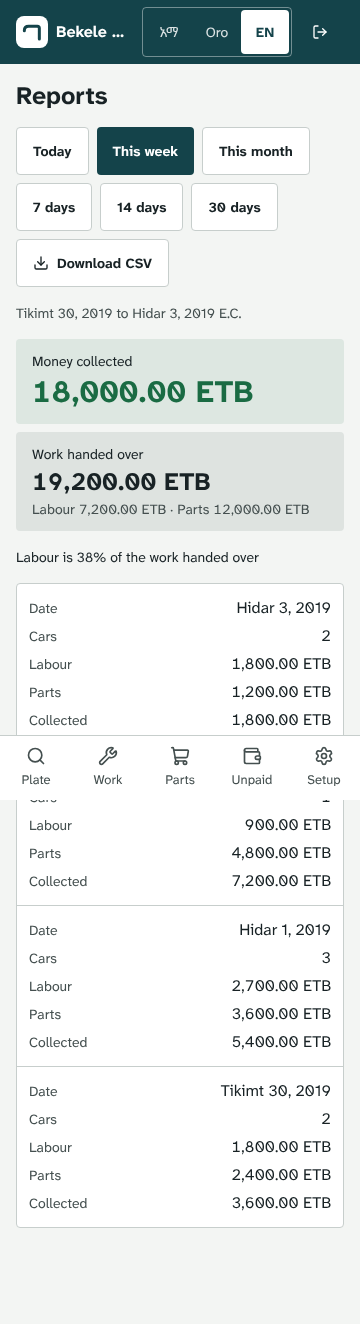
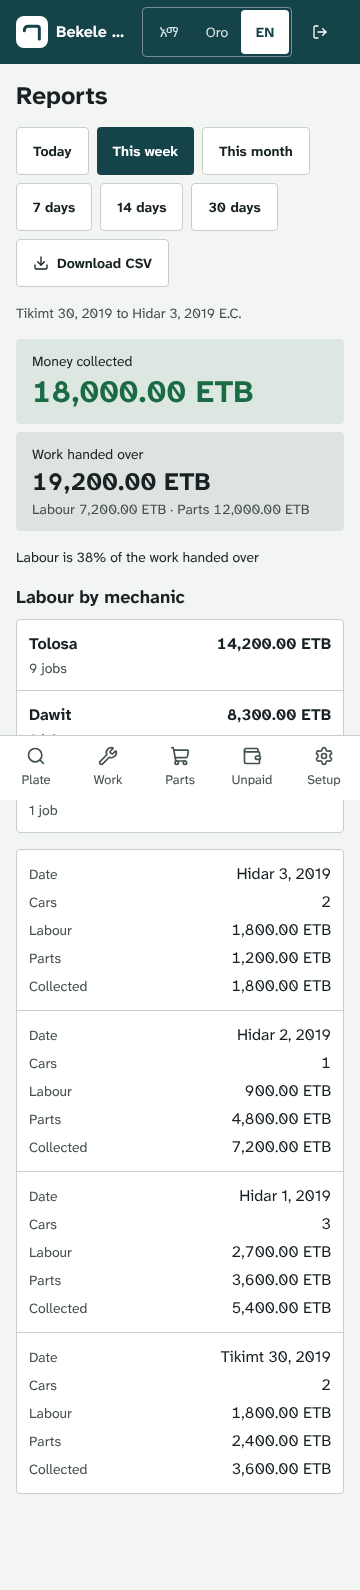
Reports: labour booked per mechanic with job counts

diff --git a/src/app/(app)/reports/page.tsx b/src/app/(app)/reports/page.tsx
@@ -3,6 +3,7 @@ import { redirect } from "next/navigation";
 import { getLocale, getTranslations } from "next-intl/server";
 import { Download } from "lucide-react";
 import { DataList } from "@/components/galmee/data-list";
+import { ListRow, ListSheet } from "@/components/galmee/list-row";
 import { MoneySummaryCard } from "@/components/galmee/money-summary-card";
 import { buttonVariants } from "@/components/ui/button";
 import type { Locale } from "@/i18n/config";
@@ -10,7 +11,7 @@ import { formatEthiopianDate } from "@/lib/ethiopian-date";
 import { formatBirr } from "@/lib/money";
 import { REPORT_RANGES, addisToday, parseReportRange, reportRangeDates, type ReportRange } from "@/lib/report-range";
 import { cn } from "@/lib/utils";
-import { dailyReport } from "@/server/dal/garage";
+import { dailyReport, labourByMechanic } from "@/server/dal/garage";
 import { getSession } from "@/server/dal/session";
 
 export default async function ReportsPage({ searchParams }: { searchParams: Promise<{ range?: string }> }) {
@@ -18,7 +19,12 @@ export default async function ReportsPage({ searchParams }: { searchParams: Prom
   const { profile } = await getSession();
   if (profile.role === "staff") redirect("/");
   const { from, to } = reportRangeDates(range, addisToday());
-  const [days, t, locale] = await Promise.all([dailyReport(from, to), getTranslations("reports"), getLocale() as Promise<Locale>]);
+  const [days, mechanics, t, locale] = await Promise.all([
+    dailyReport(from, to),
+    labourByMechanic(from, to),
+    getTranslations("reports"),
+    getLocale() as Promise<Locale>,
+  ]);
   const rows = [...days].reverse();
   const parts = days.reduce((sum, d) => sum + d.parts, 0);
   const labour = days.reduce((sum, d) => sum + d.labour, 0);
@@ -58,6 +64,21 @@ export default async function ReportsPage({ searchParams }: { searchParams: Prom
         />
       </div>
       {work > 0 ? <p className="text-sm">{t("labourShare", { pct: Math.round((labour / work) * 100) })}</p> : null}
+      {mechanics.length > 0 ? (
+        <section className="grid gap-2">
+          <h2 className="text-lg font-semibold">{t("byMechanic")}</h2>
+          <ListSheet>
+            {mechanics.map((m) => (
+              <ListRow
+                key={m.mechanicId ?? "none"}
+                title={m.name ?? t("noMechanic")}
+                sub={t("mechanicJobs", { count: m.jobs })}
+                right={<span className="num font-semibold">{formatBirr(m.labour, locale)}</span>}
+              />
+            ))}
+          </ListSheet>
+        </section>
+      ) : null}
       <DataList
         caption={t("title")}
         rows={rows}

diff --git a/src/server/dal/garage.ts b/src/server/dal/garage.ts
@@ -362,3 +362,13 @@ export async function dailyReport(from: string, to: string): Promise<ReportDayDT
     collected: Number(d.collected),
   }));
 }
+
+export type MechanicLabourDTO = { mechanicId: string | null; name: string | null; jobs: number; labour: number };
+
+/** Labour booked per mechanic in the range, biggest first; lines with no mechanic come back with a null name. */
+export async function labourByMechanic(from: string, to: string): Promise<MechanicLabourDTO[]> {
+  const supabase = await createClient();
+  const { data, error } = await supabase.rpc("gr_labour_by_mechanic", { p_from: from, p_to: to });
+  if (error) throw new Error("report_unavailable");
+  return (data ?? []).map((m) => ({ mechanicId: m.mechanic_id, name: m.mechanic_name, jobs: m.jobs, labour: Number(m.labour) }));
+}

diff --git a/src/lib/database.types.ts b/src/lib/database.types.ts
@@ -1157,6 +1157,10 @@ export type Database = {
         Args: { p_from: string; p_to: string }
         Returns: { collected: number; day: string; jobs_delivered: number; labour: number; parts: number }[]
       }
+      gr_labour_by_mechanic: {
+        Args: { p_from: string; p_to: string }
+        Returns: { jobs: number; labour: number; mechanic_id: string | null; mechanic_name: string | null }[]
+      }
       gr_load_demo_data: { Args: never; Returns: number }
       gr_open_job: {
         Args: { p_client_ref?: string; p_complaint: string; p_customer?: string; p_customer_name?: string; p_customer_phone?: string; p_make?: string; p_mechanic?: string; p_model?: string; p_odometer?: number; p_plate: string }

diff --git a/ROADMAP.md b/ROADMAP.md
@@ -14,7 +14,8 @@ Build order: M-next first, then M-after, then the remaining open items below.
 - [ ] Offline queue for job payments
 - [ ] Parts stock on the shared items and stock (receive, deduct when a part is added to a job)
 - [x] Reorder-level low-stock list
-- [ ] Staff invite and per-mechanic labour report
+- [ ] Staff invite
+- [x] Per-mechanic labour report
 - [ ] Service-due reminders (by km or months) queued as SMS
 - [ ] Export all tenant data to Excel
 
